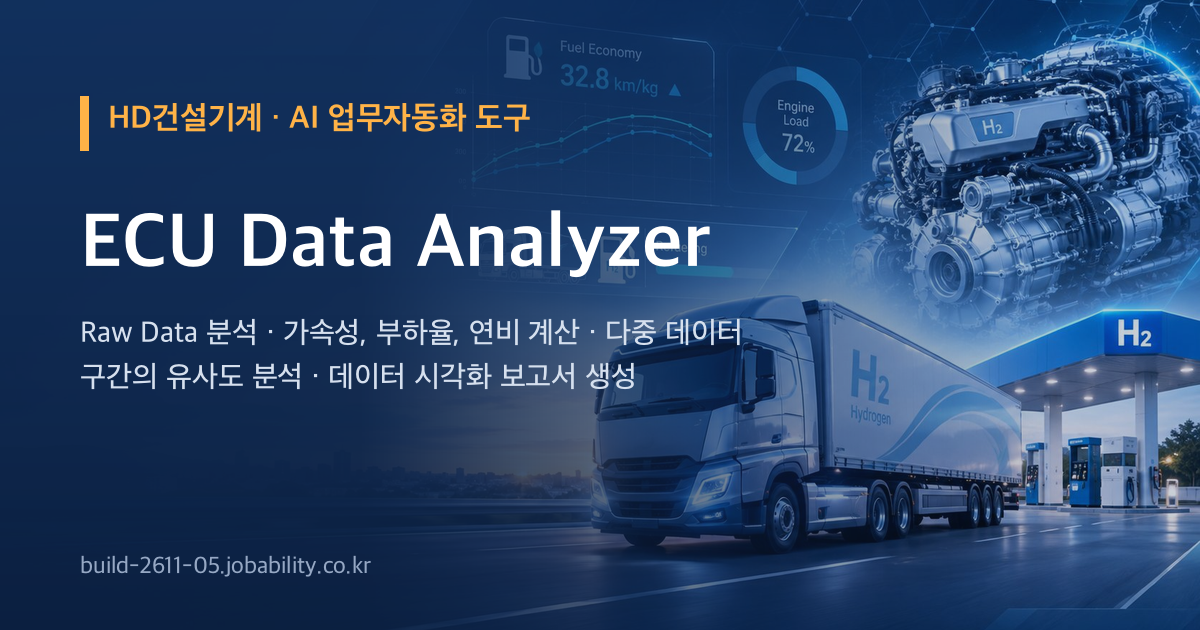
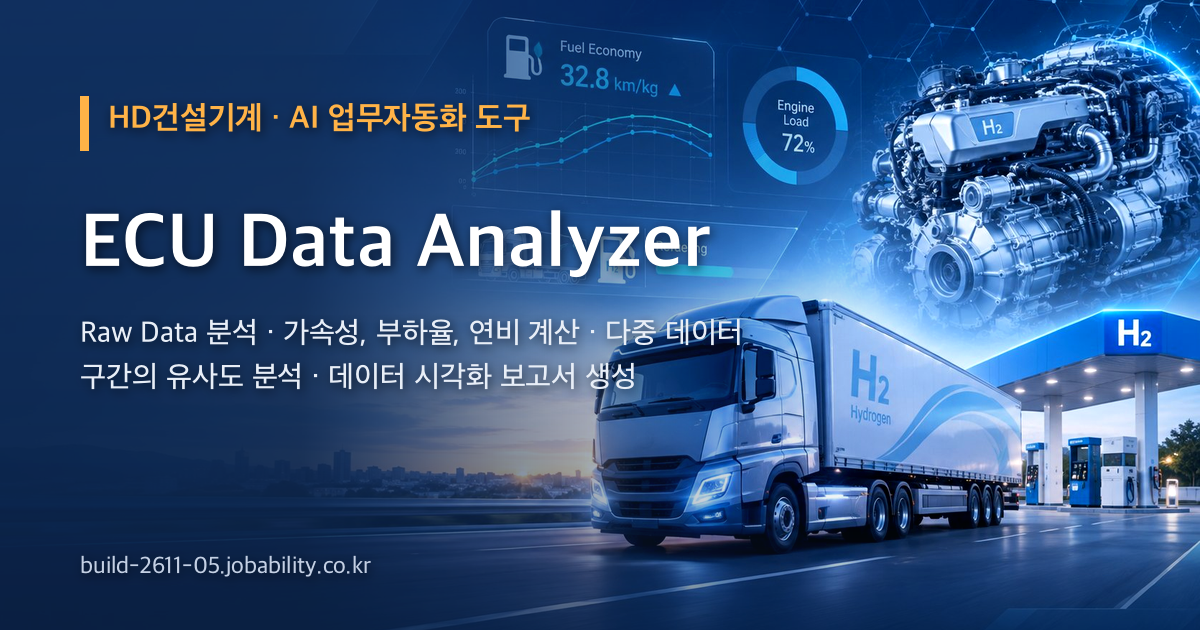
공유 그림 다시(사진 또렷하게) · 판 2026-11-13.12

diff --git a/index.html b/index.html
@@ -12,8 +12,8 @@
 <meta property="og:title" content="HD건설기계 · ECU Data Analyzer">
 <meta property="og:description" content="Raw Data 분석 · 가속성, 부하율, 연비 계산 · 다중 데이터 구간의 유사도 분석 · 데이터 시각화 보고서 생성">
 <meta property="og:url" content="https://build-2611-05.jobability.co.kr/">
-<meta property="og:image" content="https://build-2611-05.jobability.co.kr/og-image.png">
-<meta property="og:image:secure_url" content="https://build-2611-05.jobability.co.kr/og-image.png">
+<meta property="og:image" content="https://build-2611-05.jobability.co.kr/og-image.png?v=2">
+<meta property="og:image:secure_url" content="https://build-2611-05.jobability.co.kr/og-image.png?v=2">
 <meta property="og:image:type" content="image/png">
 <meta property="og:image:width" content="1200">
 <meta property="og:image:height" content="630">
@@ -22,7 +22,7 @@
 <meta name="twitter:card" content="summary_large_image">
 <meta name="twitter:title" content="HD건설기계 · ECU Data Analyzer">
 <meta name="twitter:description" content="Raw Data 분석 · 가속성, 부하율, 연비 계산 · 다중 데이터 구간의 유사도 분석 · 데이터 시각화 보고서 생성">
-<meta name="twitter:image" content="https://build-2611-05.jobability.co.kr/og-image.png">
+<meta name="twitter:image" content="https://build-2611-05.jobability.co.kr/og-image.png?v=2">
 <!-- /seo-kit -->
 <meta name="description" content="Raw Data 분석 · 가속성, 부하율, 연비 계산 · 다중 데이터 구간의 유사도 분석 · 데이터 시각화 보고서 생성">
 <link rel="icon" href="favicon.svg" type="image/svg+xml">
@@ -30,9 +30,9 @@
 <link rel="stylesheet" href="css/app.css">
 <!-- auth-kit: 로그인 전에는 도구 화면을 감춘다(js/auth.js 가 판정 뒤 푼다) -->
 <script>document.documentElement.classList.add('auth-lock')</script>
-<link rel="stylesheet" href="css/auth.css?v=2026-11-13.11">
-<link rel="stylesheet" href="css/board.css?v=2026-11-13.11">
-<link rel="stylesheet" href="css/kit-build.css?v=2026-11-13.11">
+<link rel="stylesheet" href="css/auth.css?v=2026-11-13.12">
+<link rel="stylesheet" href="css/board.css?v=2026-11-13.12">
+<link rel="stylesheet" href="css/kit-build.css?v=2026-11-13.12">
 <!-- /auth-kit -->
 </head>
 <body>
@@ -156,11 +156,11 @@
 <script src="js/engine.js"></script>
 <script src="js/app.js"></script>
 <!-- auth-kit: 로그인 · 사용 신청 · 승인 · 게시판(키트 정본 data10-00/kit/auth, 적용 build-2611-00/tools/kit) -->
-<script src="vendor/supabase.js?v=2026-11-13.11"></script>
-<script src="js/auth-config.js?v=2026-11-13.11"></script>
-<script src="js/kit-build.js?v=2026-11-13.11"></script>
-<script src="js/board.js?v=2026-11-13.11"></script>
-<script src="js/auth.js?v=2026-11-13.11"></script>
+<script src="vendor/supabase.js?v=2026-11-13.12"></script>
+<script src="js/auth-config.js?v=2026-11-13.12"></script>
+<script src="js/kit-build.js?v=2026-11-13.12"></script>
+<script src="js/board.js?v=2026-11-13.12"></script>
+<script src="js/auth.js?v=2026-11-13.12"></script>
 <!-- /auth-kit -->
 </body>
 </html>

diff --git a/guide.html b/guide.html
@@ -12,8 +12,8 @@
 <meta property="og:title" content="사용법 — 시험 데이터 비교 보고서">
 <meta property="og:description" content="차량 시험 raw data(CSV·엑셀)를 올리면 조건 구간(예: 차속 0→30 km/h 가속)의 가속 시간·평균 부하율·연비를 한 번에 계산하고, 레퍼런스와 페달·부하율·회전수 패턴이 닮은 구간을 찾아 유사성 지표로 비교한 뒤, 사용자가 유사 여부를 확인하면 그래프가 들어간 보고서(인">
 <meta property="og:url" content="https://build-2611-05.jobability.co.kr/guide.html">
-<meta property="og:image" content="https://build-2611-05.jobability.co.kr/og-image.png">
-<meta property="og:image:secure_url" content="https://build-2611-05.jobability.co.kr/og-image.png">
+<meta property="og:image" content="https://build-2611-05.jobability.co.kr/og-image.png?v=2">
+<meta property="og:image:secure_url" content="https://build-2611-05.jobability.co.kr/og-image.png?v=2">
 <meta property="og:image:type" content="image/png">
 <meta property="og:image:width" content="1200">
 <meta property="og:image:height" content="630">
@@ -22,7 +22,7 @@
 <meta name="twitter:card" content="summary_large_image">
 <meta name="twitter:title" content="사용법 — 시험 데이터 비교 보고서">
 <meta name="twitter:description" content="차량 시험 raw data(CSV·엑셀)를 올리면 조건 구간(예: 차속 0→30 km/h 가속)의 가속 시간·평균 부하율·연비를 한 번에 계산하고, 레퍼런스와 페달·부하율·회전수 패턴이 닮은 구간을 찾아 유사성 지표로 비교한 뒤, 사용자가 유사 여부를 확인하면 그래프가 들어간 보고서(인">
-<meta name="twitter:image" content="https://build-2611-05.jobability.co.kr/og-image.png">
+<meta name="twitter:image" content="https://build-2611-05.jobability.co.kr/og-image.png?v=2">
 <!-- /seo-kit -->
 <link rel="icon" href="favicon.svg" type="image/svg+xml">
 <link rel="stylesheet" href="css/style.css">

diff --git a/plan.html b/plan.html
@@ -12,8 +12,8 @@
 <meta property="og:title" content="기획서 — 시험 데이터 비교 보고서">
 <meta property="og:description" content="차량 시험 raw data(CSV·엑셀)를 올리면 조건 구간(예: 차속 0→30 km/h 가속)의 가속 시간·평균 부하율·연비를 한 번에 계산하고, 레퍼런스와 페달·부하율·회전수 패턴이 닮은 구간을 찾아 유사성 지표로 비교한 뒤, 사용자가 유사 여부를 확인하면 그래프가 들어간 보고서(인">
 <meta property="og:url" content="https://build-2611-05.jobability.co.kr/plan.html">
-<meta property="og:image" content="https://build-2611-05.jobability.co.kr/og-image.png">
-<meta property="og:image:secure_url" content="https://build-2611-05.jobability.co.kr/og-image.png">
+<meta property="og:image" content="https://build-2611-05.jobability.co.kr/og-image.png?v=2">
+<meta property="og:image:secure_url" content="https://build-2611-05.jobability.co.kr/og-image.png?v=2">
 <meta property="og:image:type" content="image/png">
 <meta property="og:image:width" content="1200">
 <meta property="og:image:height" content="630">
@@ -22,7 +22,7 @@
 <meta name="twitter:card" content="summary_large_image">
 <meta name="twitter:title" content="기획서 — 시험 데이터 비교 보고서">
 <meta name="twitter:description" content="차량 시험 raw data(CSV·엑셀)를 올리면 조건 구간(예: 차속 0→30 km/h 가속)의 가속 시간·평균 부하율·연비를 한 번에 계산하고, 레퍼런스와 페달·부하율·회전수 패턴이 닮은 구간을 찾아 유사성 지표로 비교한 뒤, 사용자가 유사 여부를 확인하면 그래프가 들어간 보고서(인">
-<meta name="twitter:image" content="https://build-2611-05.jobability.co.kr/og-image.png">
+<meta name="twitter:image" content="https://build-2611-05.jobability.co.kr/og-image.png?v=2">
 <!-- /seo-kit -->
 <link rel="icon" href="favicon.svg" type="image/svg+xml">
 <link rel="stylesheet" href="css/style.css">

diff --git a/report.html b/report.html
@@ -12,8 +12,8 @@
 <meta property="og:title" content="평가보고서 — 시험 데이터 비교 보고서">
 <meta property="og:description" content="시험 데이터 비교 보고서 점검 · 평가보고서(2026-11-13) — 사이트 점검, 기능과 시험, 인계 준비, 판 이력, 한계.">
 <meta property="og:url" content="https://build-2611-05.jobability.co.kr/report.html">
-<meta property="og:image" content="https://build-2611-05.jobability.co.kr/og-image.png">
-<meta property="og:image:secure_url" content="https://build-2611-05.jobability.co.kr/og-image.png">
+<meta property="og:image" content="https://build-2611-05.jobability.co.kr/og-image.png?v=2">
+<meta property="og:image:secure_url" content="https://build-2611-05.jobability.co.kr/og-image.png?v=2">
 <meta property="og:image:type" content="image/png">
 <meta property="og:image:width" content="1200">
 <meta property="og:image:height" content="630">
@@ -22,7 +22,7 @@
 <meta name="twitter:card" content="summary_large_image">
 <meta name="twitter:title" content="평가보고서 — 시험 데이터 비교 보고서">
 <meta name="twitter:description" content="시험 데이터 비교 보고서 점검 · 평가보고서(2026-11-13) — 사이트 점검, 기능과 시험, 인계 준비, 판 이력, 한계.">
-<meta name="twitter:image" content="https://build-2611-05.jobability.co.kr/og-image.png">
+<meta name="twitter:image" content="https://build-2611-05.jobability.co.kr/og-image.png?v=2">
 <!-- /seo-kit -->
 <meta name="description" content="시험 데이터 비교 보고서 점검 · 평가보고서(2026-11-13) — 사이트 점검, 기능과 시험, 인계 준비, 판 이력, 한계.">
 <link rel="icon" href="favicon.svg" type="image/svg+xml">
